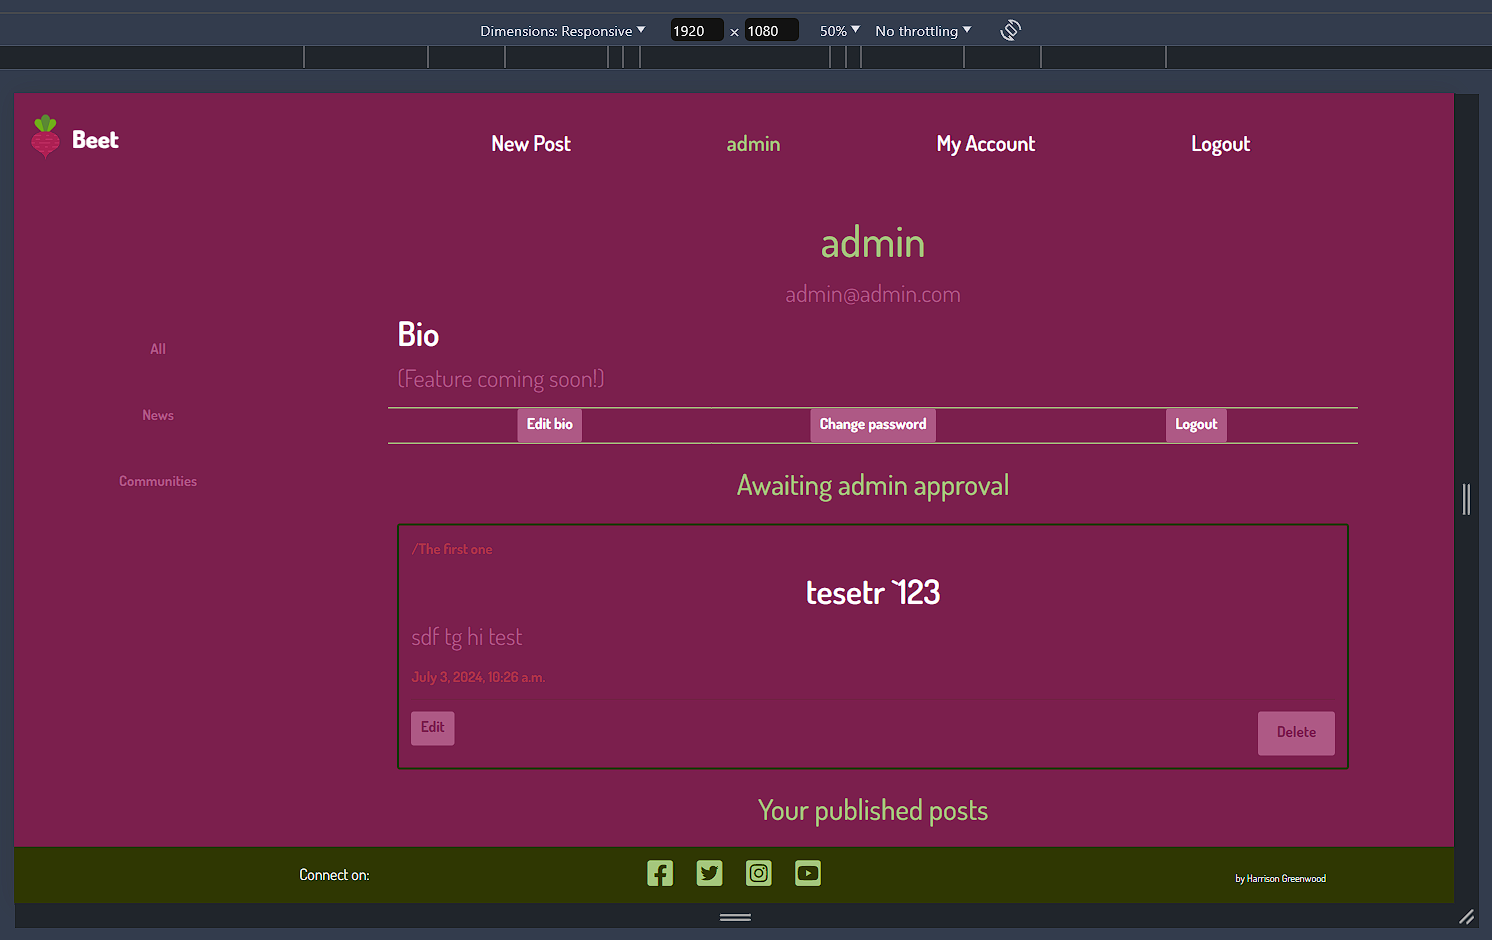
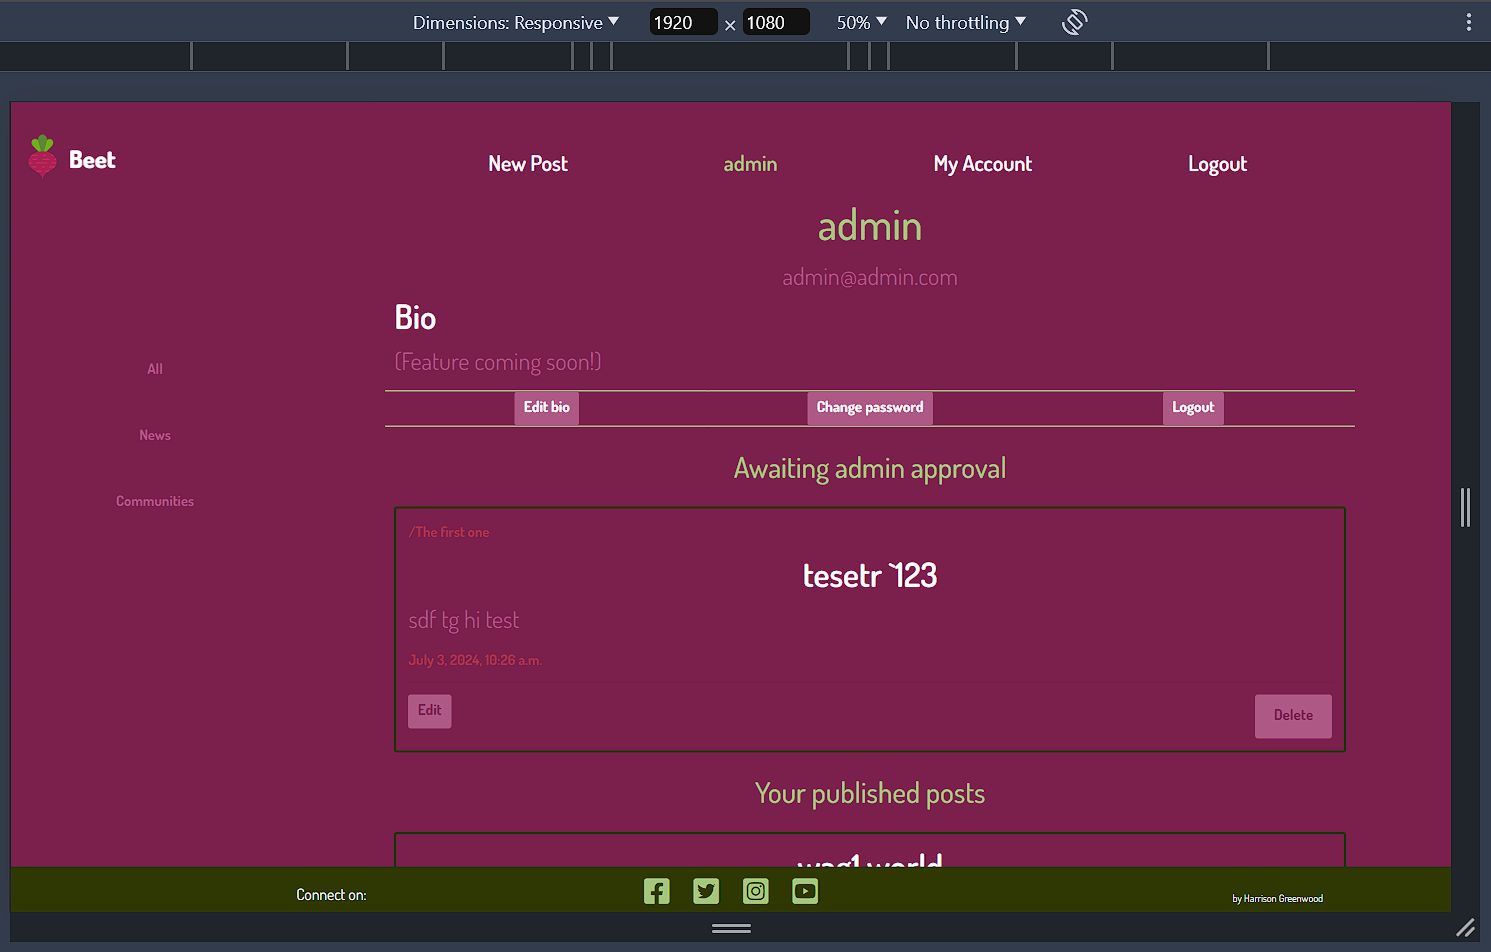
some screenshots updated for readme

diff --git a/README.md b/README.md
@@ -282,7 +282,7 @@ Here is a test I ran for the create user form.
 The error did not effect functionality as it was looking for the notification to be in double quotes but instead was in single quotes, as generated by Django's form.
 
 ### Testing user experience
-Below is an example of a user navigating the wbsite, testing various components and functions, as the project was at an earlier date.
+Below is an example of a user navigating the website, testing various components and functions, as the project was at an earlier date. Several changes have been made after this video, including logout success notifaction and various form stylings.
 
 <video width="1280" height="720" controls>
   <source src="README assets/beet user test muted.mp4" type="video/mp4">
